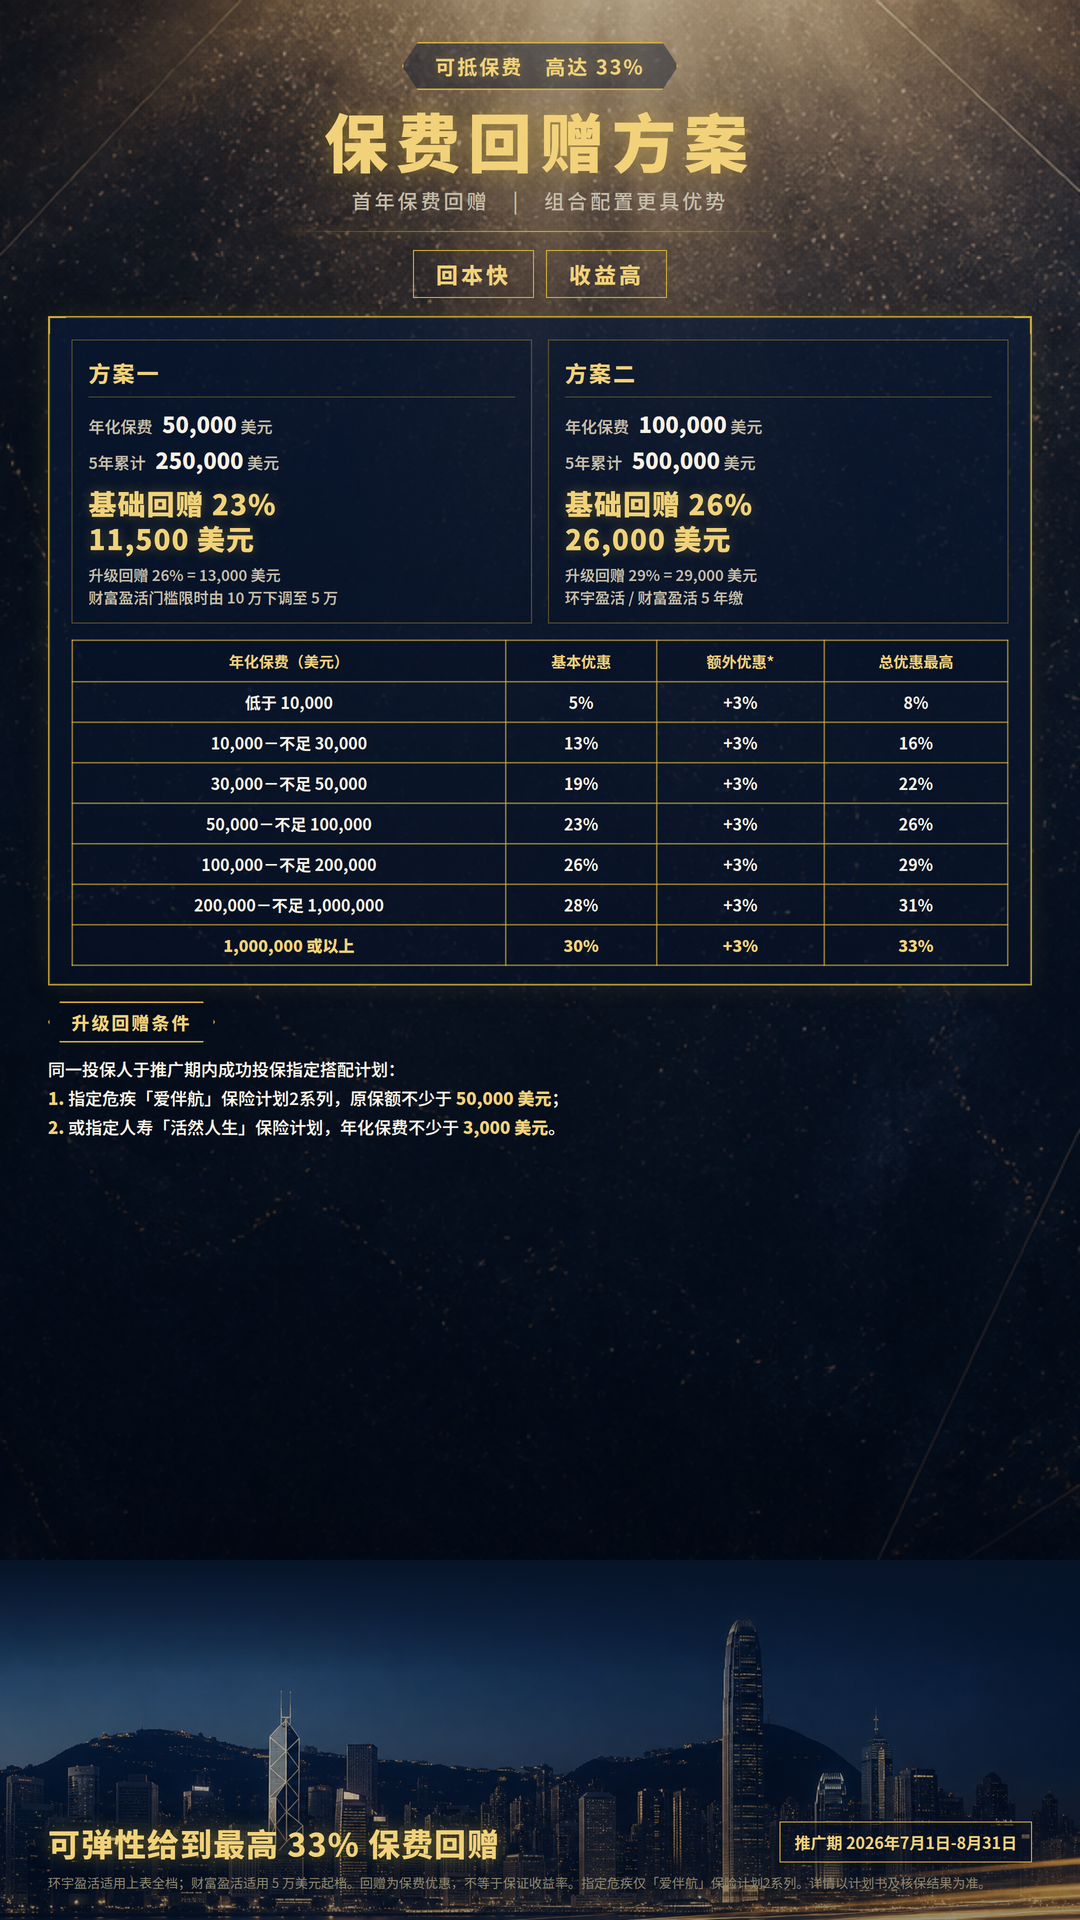
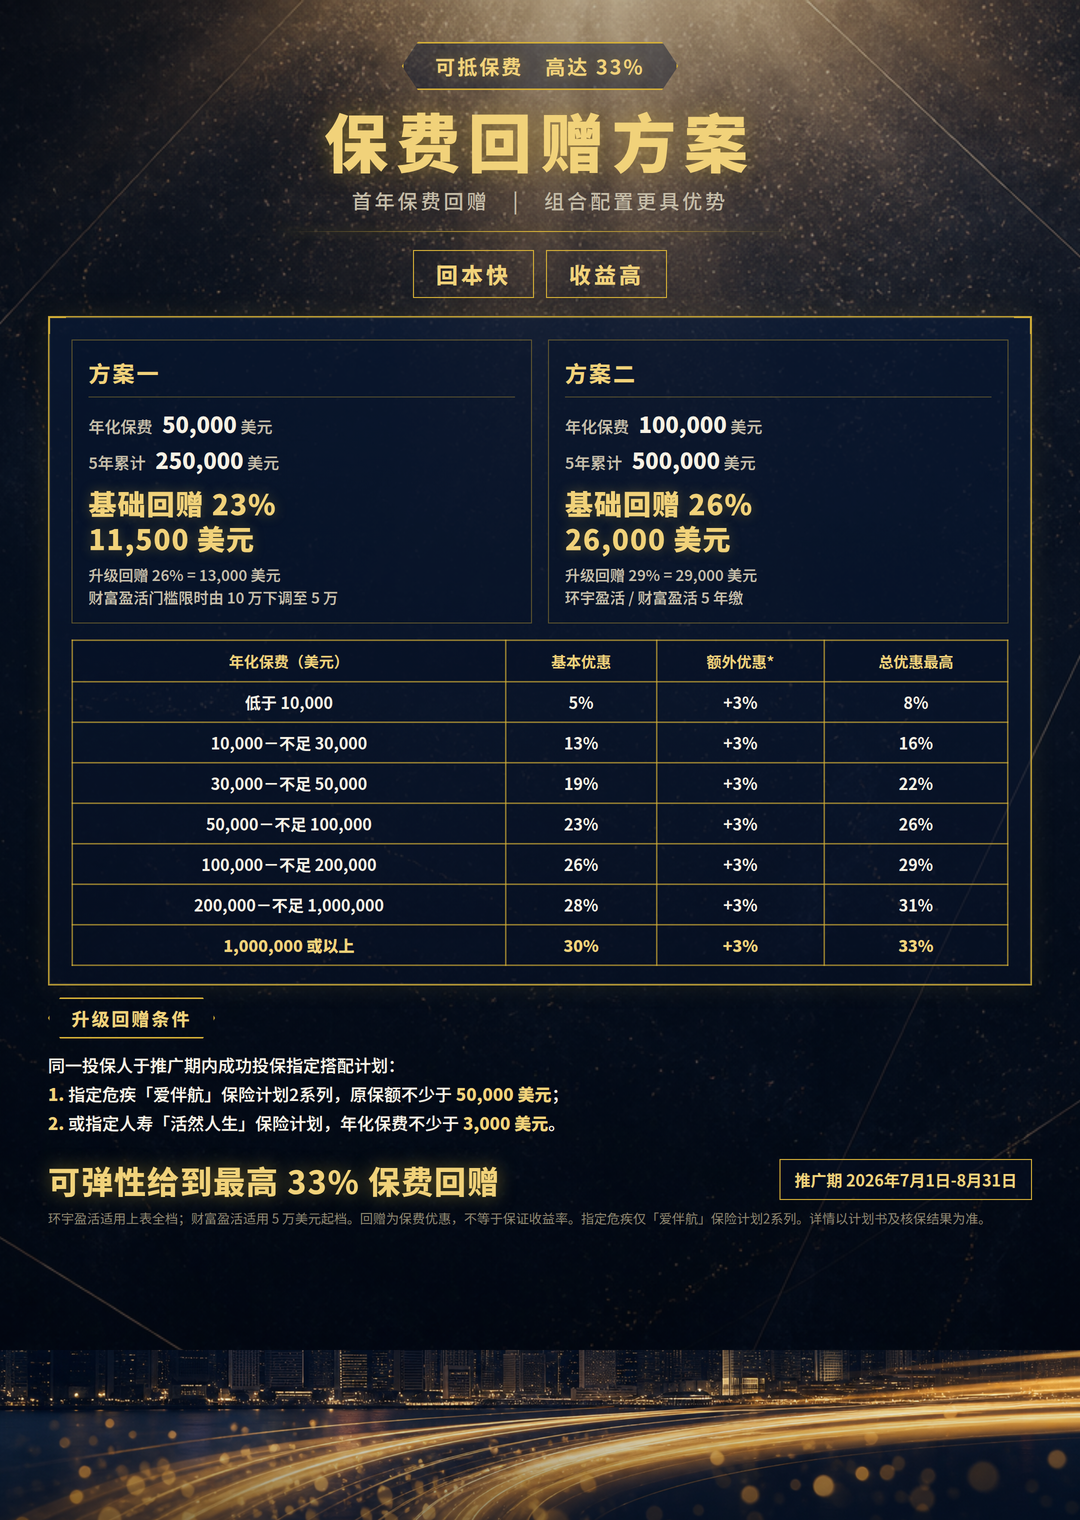
Tighten bottom half of navy rebate poster
Pull the footer up, crop leftover navy gap, and raise the skyline so the lower half has about half the previous empty space.

diff --git a/design/poster/index.html b/design/poster/index.html
@@ -25,7 +25,7 @@
 
     .poster {
       width: 1080px;
-      height: 1920px;
+      height: 1520px;
       position: relative;
       overflow: hidden;
       font-family: "Noto Sans SC", "WenQuanYi Micro Hei", sans-serif;
@@ -38,10 +38,10 @@
     .skyline {
       position: absolute;
       left: 0; right: 0; bottom: 0;
-      height: 360px;
+      height: 170px;
       background:
-        linear-gradient(180deg, rgba(7,20,40,1) 0%, rgba(7,20,40,.12) 32%, rgba(7,20,40,.4) 100%),
-        url("./assets/skyline-gold-trails.jpg") center 58% / cover no-repeat;
+        linear-gradient(180deg, rgba(7,20,40,.2) 0%, rgba(7,20,40,0) 22%, rgba(7,20,40,.45) 100%),
+        url("./assets/skyline-gold-trails.jpg") center 92% / cover no-repeat;
       z-index: 1;
       pointer-events: none;
     }
@@ -50,7 +50,7 @@
       position: relative;
       z-index: 2;
       height: 100%;
-      padding: 42px 48px 28px;
+      padding: 42px 48px 20px;
       display: flex;
       flex-direction: column;
       align-items: center;
@@ -199,7 +199,7 @@
       font-weight: 900;
     }
 
-    .cond-wrap { width: 100%; margin-top: 16px; }
+    .cond-wrap { width: 100%; margin-top: 12px; }
 
     .cond-title {
       display: inline-flex;
@@ -224,8 +224,8 @@
 
     .foot {
       width: 100%;
-      margin-top: auto;
-      padding-top: 18px;
+      margin-top: 14px;
+      padding-top: 8px;
       display: flex;
       align-items: flex-end;
       justify-content: space-between;
@@ -251,7 +251,7 @@
       white-space: nowrap;
     }
 
-    .note { width: 100%; margin-top: 10px; font-size: 13px; color: #8e866f; line-height: 1.5; }
+    .note { width: 100%; margin-top: 8px; font-size: 13px; color: #8e866f; line-height: 1.5; }
   </style>
 </head>
 <body>
